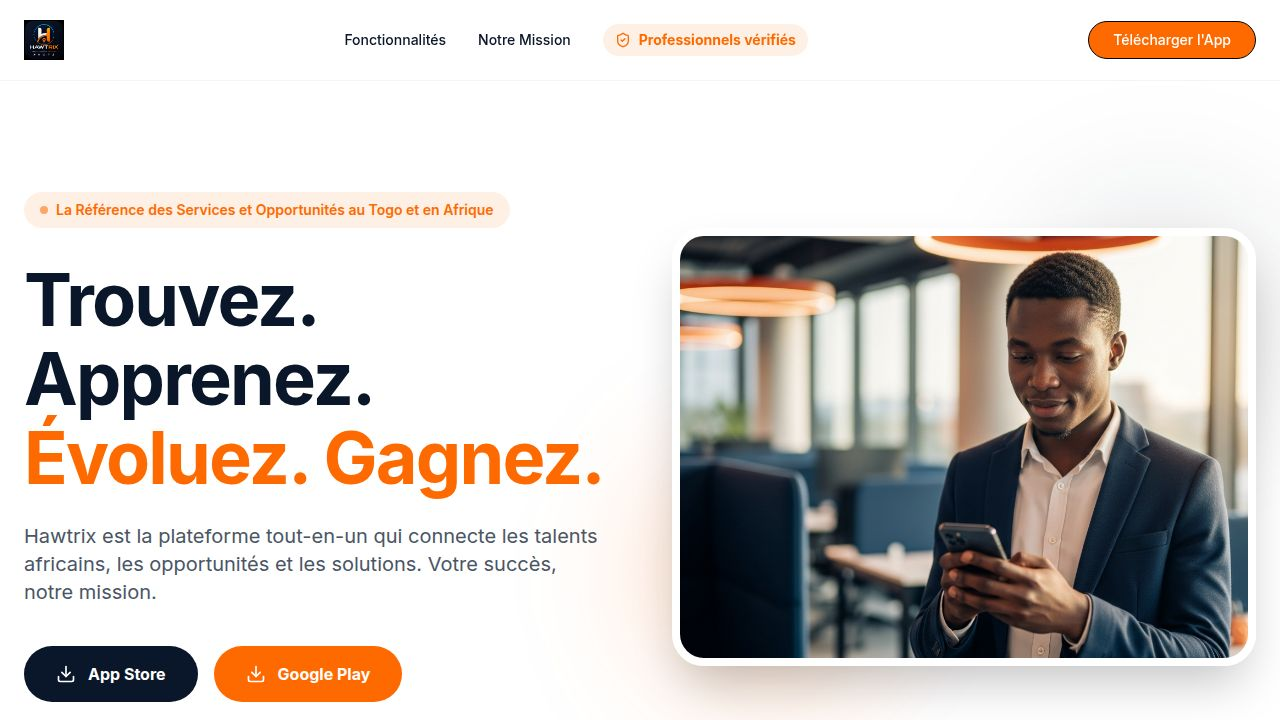
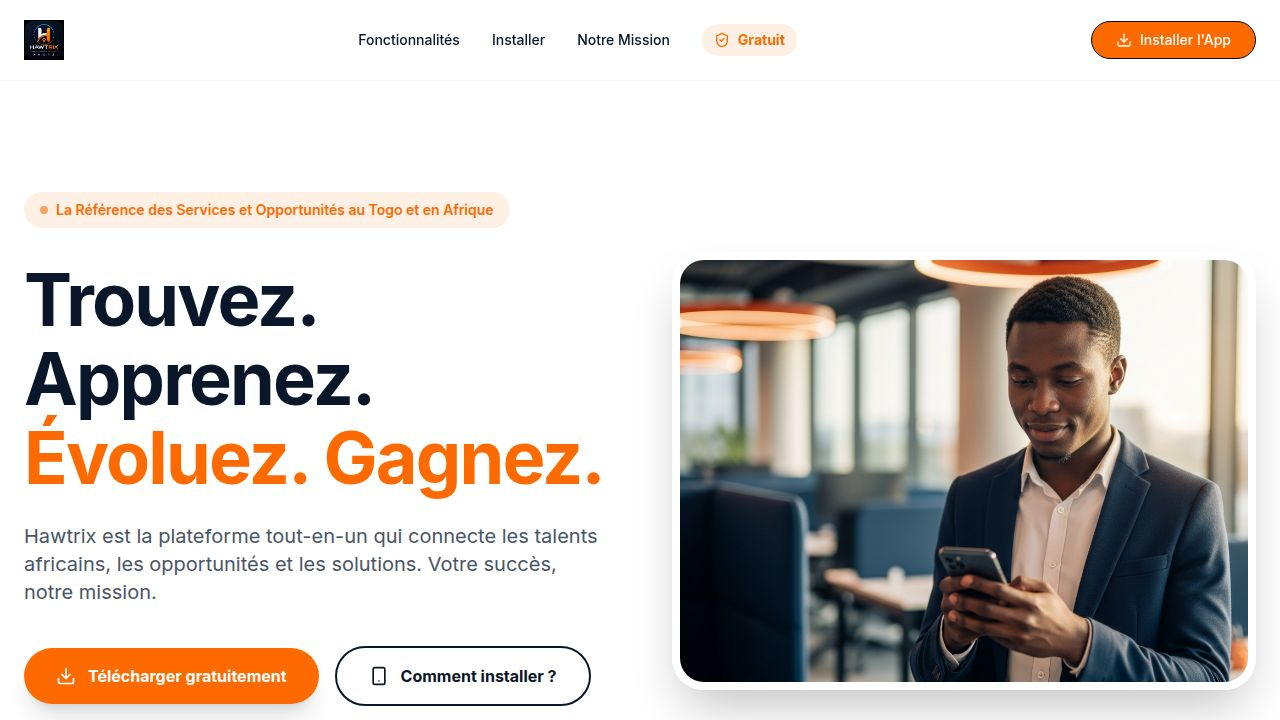
Add ability to install app directly from website
Update landing page to guide users through installing the app as a PWA, and configure app.json for PWA support.

Replit-Commit-Author: Agent
Replit-Commit-Session-Id: d1d074c6-8d66-4645-8ddd-3a089009e36c
Replit-Commit-Checkpoint-Type: full_checkpoint
Replit-Commit-Event-Id: e7beca47-60d3-42df-8d7d-bbf89f404e5a
Replit-Commit-Screenshot-Url: https://storage.googleapis.com/screenshot-production-us-central1/59834ae7-6fbf-4e29-ab89-767a441aaa06/d1d074c6-8d66-4645-8ddd-3a089009e36c/0BhDGXH
Replit-Helium-Checkpoint-Created: true

diff --git a/artifacts/hawtrix-web/src/pages/Home.tsx b/artifacts/hawtrix-web/src/pages/Home.tsx
@@ -7,10 +7,14 @@ import {
   MessageSquare, 
   CreditCard,
   ShieldCheck,
-  ArrowRight,
   Download,
   Menu,
-  X
+  X,
+  Smartphone,
+  Share2,
+  PlusSquare,
+  Chrome,
+  ExternalLink
 } from "lucide-react";
 import { useState } from "react";
 import { Button } from "@/components/ui/button";
@@ -48,9 +52,19 @@ const features = [
   }
 ];
 
+// URL de l'application (chemin racine du même domaine)
+function getAppUrl() {
+  return window.location.origin + "/";
+}
+
 export default function Home() {
   const [isMenuOpen, setIsMenuOpen] = useState(false);
+  const [showInstallGuide, setShowInstallGuide] = useState(false);
   const baseUrl = import.meta.env.BASE_URL;
+
+  const handleOpenApp = () => {
+    window.open(getAppUrl(), "_blank");
+  };
 
   return (
     <div className="min-h-screen bg-white text-primary flex flex-col font-sans overflow-x-hidden">
@@ -63,16 +77,22 @@ export default function Home() {
           
           <div className="hidden md:flex items-center gap-8 text-sm font-medium">
             <a href="#features" className="hover:text-accent transition-colors">Fonctionnalités</a>
+            <a href="#installer" className="hover:text-accent transition-colors">Installer</a>
             <a href="#about" className="hover:text-accent transition-colors">Notre Mission</a>
             <div className="flex items-center gap-2 text-accent bg-accent/10 px-3 py-1.5 rounded-full font-bold">
               <ShieldCheck className="w-4 h-4" />
-              Professionnels vérifiés
+              Gratuit
             </div>
           </div>
           
           <div className="hidden md:flex items-center gap-4">
-            <Button variant="default" className="bg-accent text-white hover:bg-accent/90 rounded-full px-6">
-              Télécharger l'App
+            <Button 
+              onClick={handleOpenApp}
+              variant="default" 
+              className="bg-accent text-white hover:bg-accent/90 rounded-full px-6 flex items-center gap-2"
+            >
+              <Download className="w-4 h-4" />
+              Installer l'App
             </Button>
           </div>
 
@@ -92,13 +112,14 @@ export default function Home() {
             className="md:hidden bg-white border-b border-gray-100 p-6 flex flex-col gap-4"
           >
             <a href="#features" onClick={() => setIsMenuOpen(false)} className="text-lg font-medium">Fonctionnalités</a>
+            <a href="#installer" onClick={() => setIsMenuOpen(false)} className="text-lg font-medium">Installer l'app</a>
             <a href="#about" onClick={() => setIsMenuOpen(false)} className="text-lg font-medium">Notre Mission</a>
-            <div className="flex items-center gap-2 text-accent bg-accent/10 px-4 py-2 rounded-lg font-bold w-fit">
-              <ShieldCheck className="w-5 h-5" />
-              Professionnels vérifiés
-            </div>
-            <Button variant="default" className="bg-accent text-white hover:bg-accent/90 rounded-full w-full mt-4">
-              Télécharger l'App
+            <Button 
+              onClick={() => { setIsMenuOpen(false); handleOpenApp(); }}
+              variant="default" 
+              className="bg-accent text-white hover:bg-accent/90 rounded-full w-full mt-4"
+            >
+              Ouvrir l'application
             </Button>
           </motion.div>
         )}
@@ -145,14 +166,31 @@ export default function Home() {
                 transition={{ duration: 0.5, delay: 0.3 }}
                 className="flex flex-col sm:flex-row items-center justify-center lg:justify-start gap-4"
               >
-                <a href="#" className="flex items-center justify-center gap-3 bg-primary text-white px-8 py-4 rounded-full font-bold w-full sm:w-auto hover:bg-primary/90 transition-transform hover:scale-105 active:scale-95">
+                <button
+                  onClick={handleOpenApp}
+                  className="flex items-center justify-center gap-3 bg-accent text-white px-8 py-4 rounded-full font-bold w-full sm:w-auto hover:bg-accent/90 transition-transform hover:scale-105 active:scale-95 shadow-xl"
+                >
                   <Download className="w-5 h-5" />
-                  App Store
+                  Télécharger gratuitement
+                </button>
+                <a 
+                  href="#installer"
+                  className="flex items-center justify-center gap-3 border-2 border-primary text-primary px-8 py-4 rounded-full font-bold w-full sm:w-auto hover:bg-primary/5 transition-all"
+                >
+                  <Smartphone className="w-5 h-5" />
+                  Comment installer ?
                 </a>
-                <a href="#" className="flex items-center justify-center gap-3 bg-accent text-white px-8 py-4 rounded-full font-bold w-full sm:w-auto hover:bg-accent/90 transition-transform hover:scale-105 active:scale-95">
-                  <Download className="w-5 h-5" />
-                  Google Play
-                </a>
+              </motion.div>
+
+              {/* Badge "sans store" */}
+              <motion.div
+                initial={{ opacity: 0 }}
+                animate={{ opacity: 1 }}
+                transition={{ delay: 0.5 }}
+                className="mt-6 flex items-center justify-center lg:justify-start gap-3 text-sm text-gray-500"
+              >
+                <ShieldCheck className="w-4 h-4 text-green-500" />
+                Gratuit · Sans App Store · Sans Google Play · Directement sur votre téléphone
               </motion.div>
             </div>
             
@@ -209,8 +247,136 @@ export default function Home() {
         </div>
       </section>
 
+      {/* ===== SECTION INSTALLER ===== */}
+      <section id="installer" className="py-24 px-6 bg-white">
+        <div className="container mx-auto max-w-4xl">
+          <motion.div
+            initial={{ opacity: 0, y: 20 }}
+            whileInView={{ opacity: 1, y: 0 }}
+            viewport={{ once: true }}
+            className="text-center mb-14"
+          >
+            <div className="inline-flex items-center gap-2 px-4 py-2 rounded-full bg-accent/10 text-accent font-semibold text-sm mb-6">
+              <Download className="w-4 h-4" />
+              Sans App Store ni Google Play
+            </div>
+            <h2 className="text-4xl lg:text-5xl font-bold mb-5">Installer Hawtrix sur votre téléphone</h2>
+            <p className="text-lg text-gray-600 max-w-2xl mx-auto">
+              Hawtrix fonctionne directement depuis votre navigateur et s'installe en quelques secondes, comme une vraie application.
+            </p>
+          </motion.div>
+
+          {/* Bouton principal */}
+          <motion.div
+            initial={{ opacity: 0, scale: 0.95 }}
+            whileInView={{ opacity: 1, scale: 1 }}
+            viewport={{ once: true }}
+            className="flex justify-center mb-14"
+          >
+            <button
+              onClick={handleOpenApp}
+              className="flex items-center gap-4 bg-accent text-white px-10 py-5 rounded-2xl font-bold text-xl hover:bg-accent/90 transition-transform hover:scale-105 shadow-2xl"
+            >
+              <ExternalLink className="w-6 h-6" />
+              Ouvrir l'application Hawtrix
+            </button>
+          </motion.div>
+
+          {/* Guide installation */}
+          <div className="grid grid-cols-1 md:grid-cols-2 gap-8">
+            {/* Android */}
+            <motion.div
+              initial={{ opacity: 0, x: -20 }}
+              whileInView={{ opacity: 1, x: 0 }}
+              viewport={{ once: true }}
+              className="bg-gray-50 rounded-3xl p-8 border border-gray-100"
+            >
+              <div className="flex items-center gap-3 mb-6">
+                <div className="w-12 h-12 bg-green-100 rounded-2xl flex items-center justify-center">
+                  <Chrome className="w-6 h-6 text-green-600" />
+                </div>
+                <div>
+                  <h3 className="text-xl font-bold">Android (Chrome)</h3>
+                  <p className="text-sm text-gray-500">Installation en 3 clics</p>
+                </div>
+              </div>
+              <div className="space-y-4">
+                {[
+                  { num: "1", text: 'Cliquez sur "Ouvrir l\'application" ci-dessus' },
+                  { num: "2", text: 'Chrome affiche une bannière "Ajouter à l\'écran d\'accueil" → Acceptez' },
+                  { num: "3", text: "Hawtrix apparaît sur votre bureau comme une vraie app ✓" },
+                ].map(step => (
+                  <div key={step.num} className="flex items-start gap-4">
+                    <div className="w-8 h-8 bg-green-500 rounded-xl flex items-center justify-center flex-shrink-0">
+                      <span className="text-white font-bold text-sm">{step.num}</span>
+                    </div>
+                    <p className="text-gray-700 text-sm leading-relaxed pt-1">{step.text}</p>
+                  </div>
+                ))}
+              </div>
+              <div className="mt-6 bg-green-50 rounded-xl p-4 border border-green-100">
+                <p className="text-sm text-green-700 font-medium">💡 Si Chrome ne propose pas la bannière automatiquement :</p>
+                <p className="text-sm text-green-600 mt-1">Menu ⋮ → <strong>Ajouter à l'écran d'accueil</strong></p>
+              </div>
+            </motion.div>
+
+            {/* iPhone */}
+            <motion.div
+              initial={{ opacity: 0, x: 20 }}
+              whileInView={{ opacity: 1, x: 0 }}
+              viewport={{ once: true }}
+              className="bg-gray-50 rounded-3xl p-8 border border-gray-100"
+            >
+              <div className="flex items-center gap-3 mb-6">
+                <div className="w-12 h-12 bg-blue-100 rounded-2xl flex items-center justify-center">
+                  <Smartphone className="w-6 h-6 text-blue-600" />
+                </div>
+                <div>
+                  <h3 className="text-xl font-bold">iPhone (Safari)</h3>
+                  <p className="text-sm text-gray-500">Via Safari uniquement</p>
+                </div>
+              </div>
+              <div className="space-y-4">
+                {[
+                  { num: "1", text: 'Ouvrez le lien de l\'app dans Safari (pas Chrome)' },
+                  { num: "2", text: 'Appuyez sur l\'icône Partager ⬆ en bas de l\'écran' },
+                  { num: "3", text: 'Faites défiler et choisissez "Sur l\'écran d\'accueil" → Ajouter' },
+                ].map(step => (
+                  <div key={step.num} className="flex items-start gap-4">
+                    <div className="w-8 h-8 bg-blue-500 rounded-xl flex items-center justify-center flex-shrink-0">
+                      <span className="text-white font-bold text-sm">{step.num}</span>
+                    </div>
+                    <p className="text-gray-700 text-sm leading-relaxed pt-1">{step.text}</p>
+                  </div>
+                ))}
+              </div>
+              <div className="mt-6 bg-blue-50 rounded-xl p-4 border border-blue-100">
+                <div className="flex items-center gap-2 mb-1">
+                  <Share2 className="w-4 h-4 text-blue-600" />
+                  <p className="text-sm text-blue-700 font-medium">Icône Partager</p>
+                </div>
+                <p className="text-sm text-blue-600">L'icône ressemble à un carré avec une flèche vers le haut, en bas de l'écran Safari.</p>
+              </div>
+            </motion.div>
+          </div>
+
+          {/* Note gratuit */}
+          <motion.div
+            initial={{ opacity: 0, y: 10 }}
+            whileInView={{ opacity: 1, y: 0 }}
+            viewport={{ once: true }}
+            className="mt-8 text-center"
+          >
+            <div className="inline-flex items-center gap-2 px-5 py-3 bg-primary text-white rounded-2xl text-sm font-medium">
+              <ShieldCheck className="w-4 h-4" />
+              Téléchargement 100% gratuit · Aucun compte store requis · Fonctionne hors ligne
+            </div>
+          </motion.div>
+        </div>
+      </section>
+
       {/* Deep Dive / Mission */}
-      <section id="about" className="py-24 px-6 relative">
+      <section id="about" className="py-24 px-6 relative bg-gray-50">
         <div className="container mx-auto">
           <div className="flex flex-col-reverse lg:flex-row items-center gap-16">
             <motion.div 
@@ -303,7 +469,7 @@ export default function Home() {
             transition={{ delay: 0.1 }}
             className="text-xl text-gray-600 mb-12"
           >
-            Téléchargez l'application Hawtrix dès aujourd'hui et accédez à un monde d'opportunités.
+            Installez Hawtrix dès maintenant — gratuit, sans App Store, directement sur votre téléphone.
           </motion.p>
           <motion.div 
             initial={{ opacity: 0, y: 20 }}
@@ -312,13 +478,19 @@ export default function Home() {
             transition={{ delay: 0.2 }}
             className="flex flex-col sm:flex-row items-center justify-center gap-6"
           >
-            <a href="#" className="flex items-center justify-center gap-3 bg-primary text-white px-10 py-5 rounded-full font-bold text-lg w-full sm:w-auto hover:bg-primary/90 transition-transform hover:scale-105 shadow-xl">
+            <button
+              onClick={handleOpenApp}
+              className="flex items-center justify-center gap-3 bg-accent text-white px-10 py-5 rounded-full font-bold text-lg w-full sm:w-auto hover:bg-accent/90 transition-transform hover:scale-105 shadow-xl"
+            >
               <Download className="w-6 h-6" />
-              Télécharger sur l'App Store
-            </a>
-            <a href="#" className="flex items-center justify-center gap-3 bg-accent text-white px-10 py-5 rounded-full font-bold text-lg w-full sm:w-auto hover:bg-accent/90 transition-transform hover:scale-105 shadow-xl">
-              <Download className="w-6 h-6" />
-              Obtenir sur Google Play
+              Installer l'application
+            </button>
+            <a
+              href="#installer"
+              className="flex items-center justify-center gap-3 border-2 border-primary text-primary px-10 py-5 rounded-full font-bold text-lg w-full sm:w-auto hover:bg-primary/5 transition-all"
+            >
+              <Smartphone className="w-6 h-6" />
+              Guide d'installation
             </a>
           </motion.div>
         </div>
